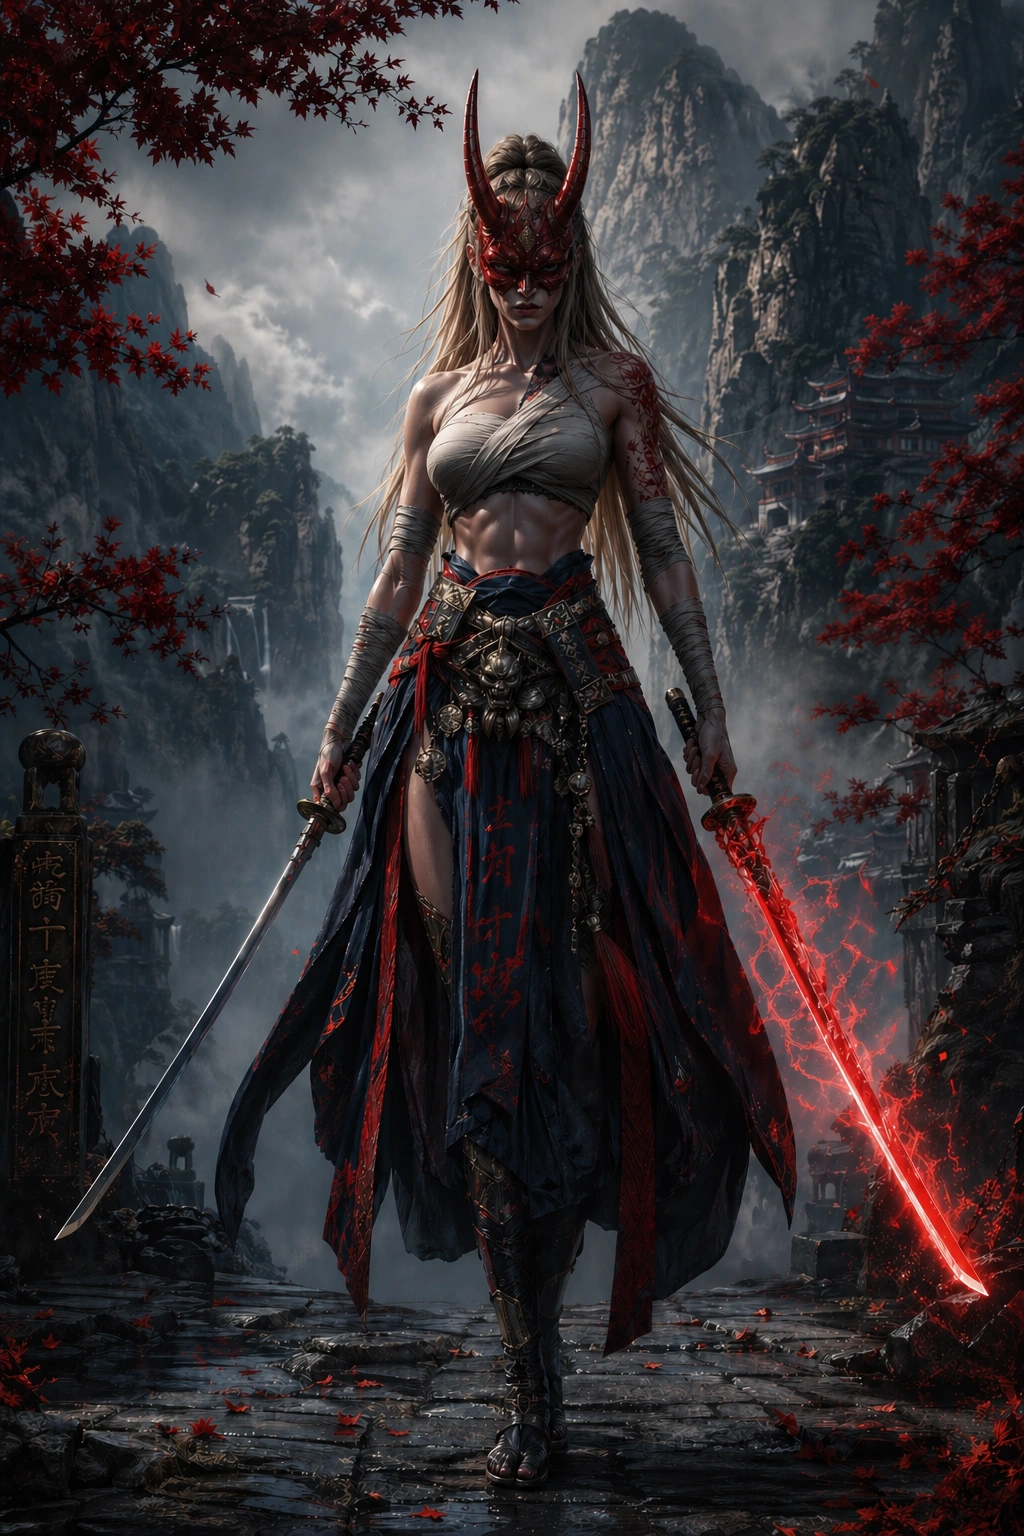
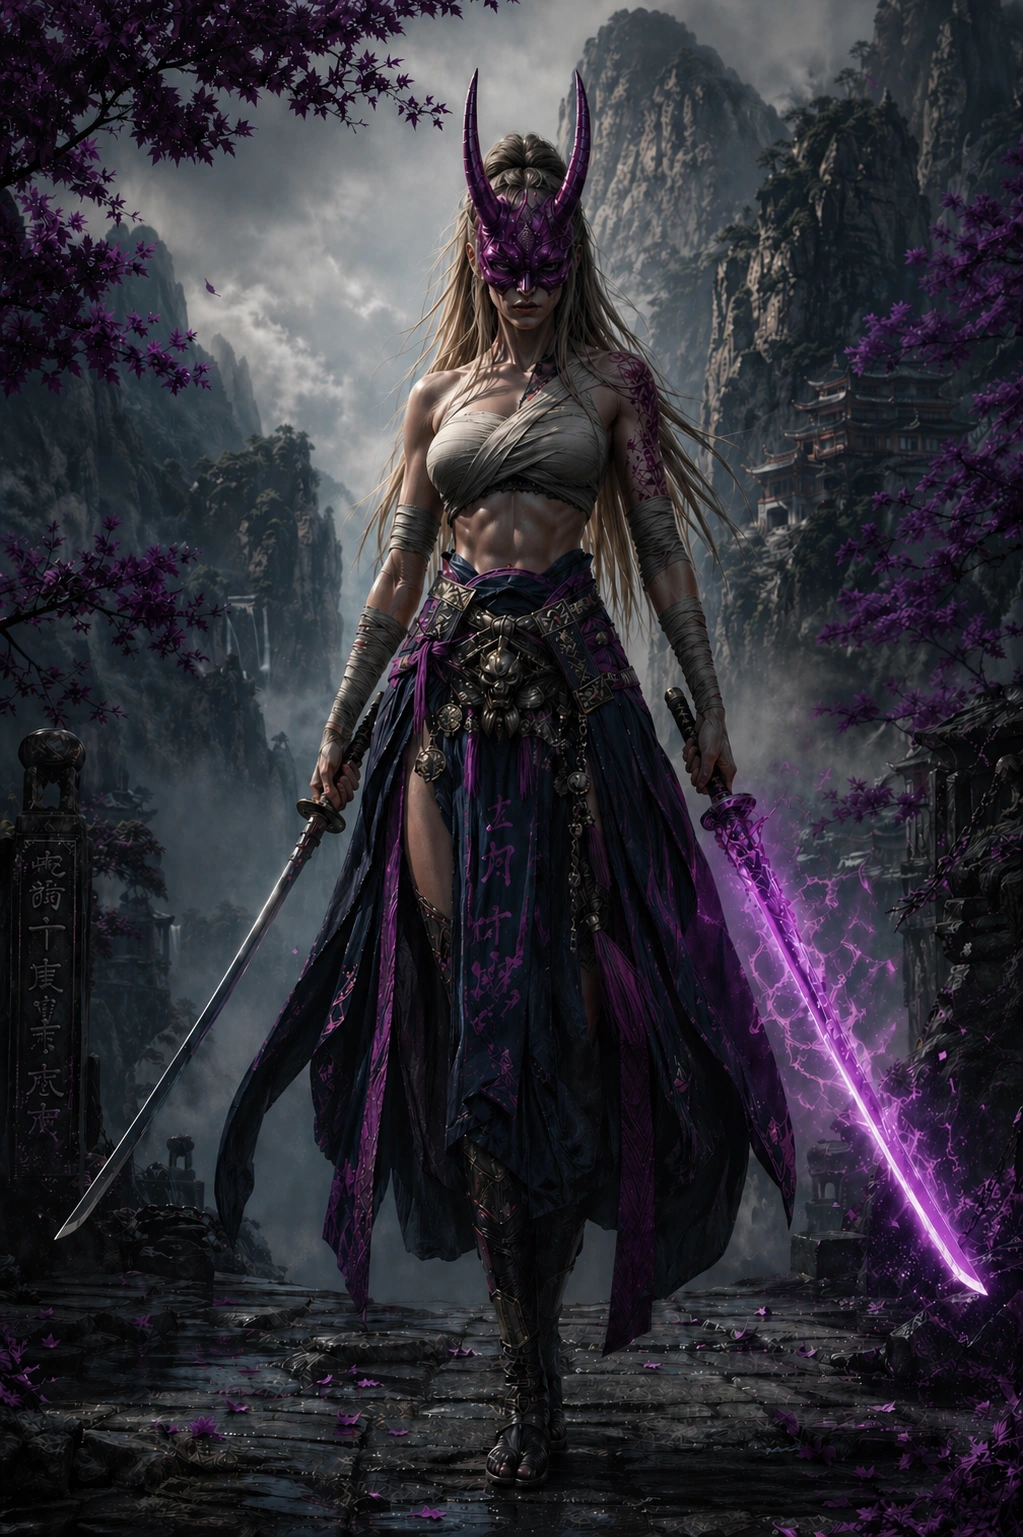
refactor: Torren taunt buff-rework. Plus: Akane portrait color changed

diff --git a/shared/data/champions/torren/skills.js b/shared/data/champions/torren/skills.js
@@ -68,55 +68,80 @@ const torrenSkills = [
     },
   },
 
-  {
-    key: "desprezar_os_fracos",
-    name: "Desprezar os Fracos",
+    {
+      key: "desprezar_os_fracos",
+      name: "Desprezar os Fracos",
 
-    bf: 40,
-    contact: true,
-    damageMode: "piercing",
-    piercingPercentage: 100,
-    priority: 2,
+      bf: 40,
+      contact: true,
+      damageMode: "piercing",
+      piercingPercentage: 100,
+      thresholdMultiplier: 1.35,
+      priority: 2,
 
-    tauntDuration: 2,
+      tauntDuration: 2,
 
-    description() {
-      return `Causa dano perfurante (${this.piercingPercentage}% de perfuração) ao inimigo com menor ataque e aplica provocação nele por ${this.tauntDuration} turno(s).`;
-    },
-    targetSpec: ["all:enemy"],
+      description() {
+        return `Causa dano perfurante (${this.piercingPercentage}% de perfuração) ao inimigo mais frágil.
+        Se sua fragilidade for significativamente maior que a de Torren, ele é provocado por ${this.tauntDuration} turno(s) e causa menos dano a outros inimigos.`;
+      },
+      targetSpec: ["all:enemy"],
 
-    resolve({ user, targets, context = {} }) {
-      const baseDamage = (user.Attack * this.bf) / 100;
+      resolve({ user, targets, context = {} }) {
+        const baseDamage = (user.Attack * this.bf) / 100;
 
-      const weakestEnemy = targets.reduce((weakest, target) => {
-        if (!weakest || target.Attack < weakest.Attack) {
-          return target;
+        const torrenScore = user.Attack / (user.HP + user.Defense);
+
+        const scoredTargets = targets.map((t) => {
+          const score = t.Attack / Math.max(1, t.HP + t.Defense);
+          return { t, score };
+        });
+
+        // 🔹 sempre escolhe o mais frágil (mesmo se não passar threshold)
+        const best = scoredTargets.reduce((best, curr) => {
+          return !best || curr.score > best.score ? curr : best;
+        }, null);
+
+        if (!best) return null; // segurança
+
+        const target = best.t;
+        const targetScore = best.score;
+
+        const damageEvent = new DamageEvent({
+          baseDamage,
+          mode: this.damageMode,
+          piercingPercentage: this.piercingPercentage,
+          attacker: user,
+          defender: target,
+          skill: this,
+          type: "physical",
+          context,
+          allChampions: context?.allChampions,
+        }).execute();
+
+        // 🔥 condição real de fraqueza
+        const isWeakEnough =
+          targetScore >= torrenScore * this.thresholdMultiplier;
+
+        let tauntLog = null;
+
+        if (isWeakEnough) {
+          tauntLog = target.applyTaunt(user.id, this.tauntDuration, context);
+          target.addDamageModifier({
+            key: "desprezado",
+            expiresAtTurn: context.currentTurn + this.tauntDuration,
+            apply: ({ damage, defender }) => {
+              if (!defender || defender.id !== user.id) {
+                return damage * 0.7;
+              }
+              return damage;
+            },
+          });
         }
-        return weakest;
-      }, null);
 
-      const damageEvent = new DamageEvent({
-        baseDamage,
-        mode: this.damageMode,
-        piercingPercentage: this.piercingPercentage,
-        attacker: user,
-        defender: weakestEnemy,
-        skill: this,
-        type: "physical",
-        context,
-        allChampions: context?.allChampions,
-      }).execute();
-
-      const tauntLog = weakestEnemy.applyTaunt(
-        user.id,
-        this.tauntDuration,
-        context,
-      );
-
-      // Return both damage and taunt log if present
-      return tauntLog ? [damageEvent, tauntLog] : damageEvent;
+        return tauntLog ? [damageEvent, tauntLog] : damageEvent;
+      },
     },
-  },
 
   {
     key: "juggernaut",
@@ -133,7 +158,8 @@ const torrenSkills = [
 
     priority: 0,
     description() {
-      return `Causa dano ao inimigo e atordoa por ${this.stunDuration} turno(s).`;
+      return `Causa dano perfurante (${this.piercingPercentage}% de perfuração) ao inimigo mais frágil. 
+      Se sua fragilidade for significativamente maior que a de Torren, ele é provocado por ${this.tauntDuration} turno(s).`;
     },
     targetSpec: ["enemy"],
     resolve({ user, targets, context = {} }) {

diff --git a/shared/data/champions/torren/data.js b/shared/data/champions/torren/data.js
@@ -2,8 +2,6 @@ export default {
   name: "Torren",
   portrait: "/assets/portraits/torren.webp",
 
-  /* unreleased: true, */
-
   HP: 375,
   Attack: 140,
   Defense: 195,
